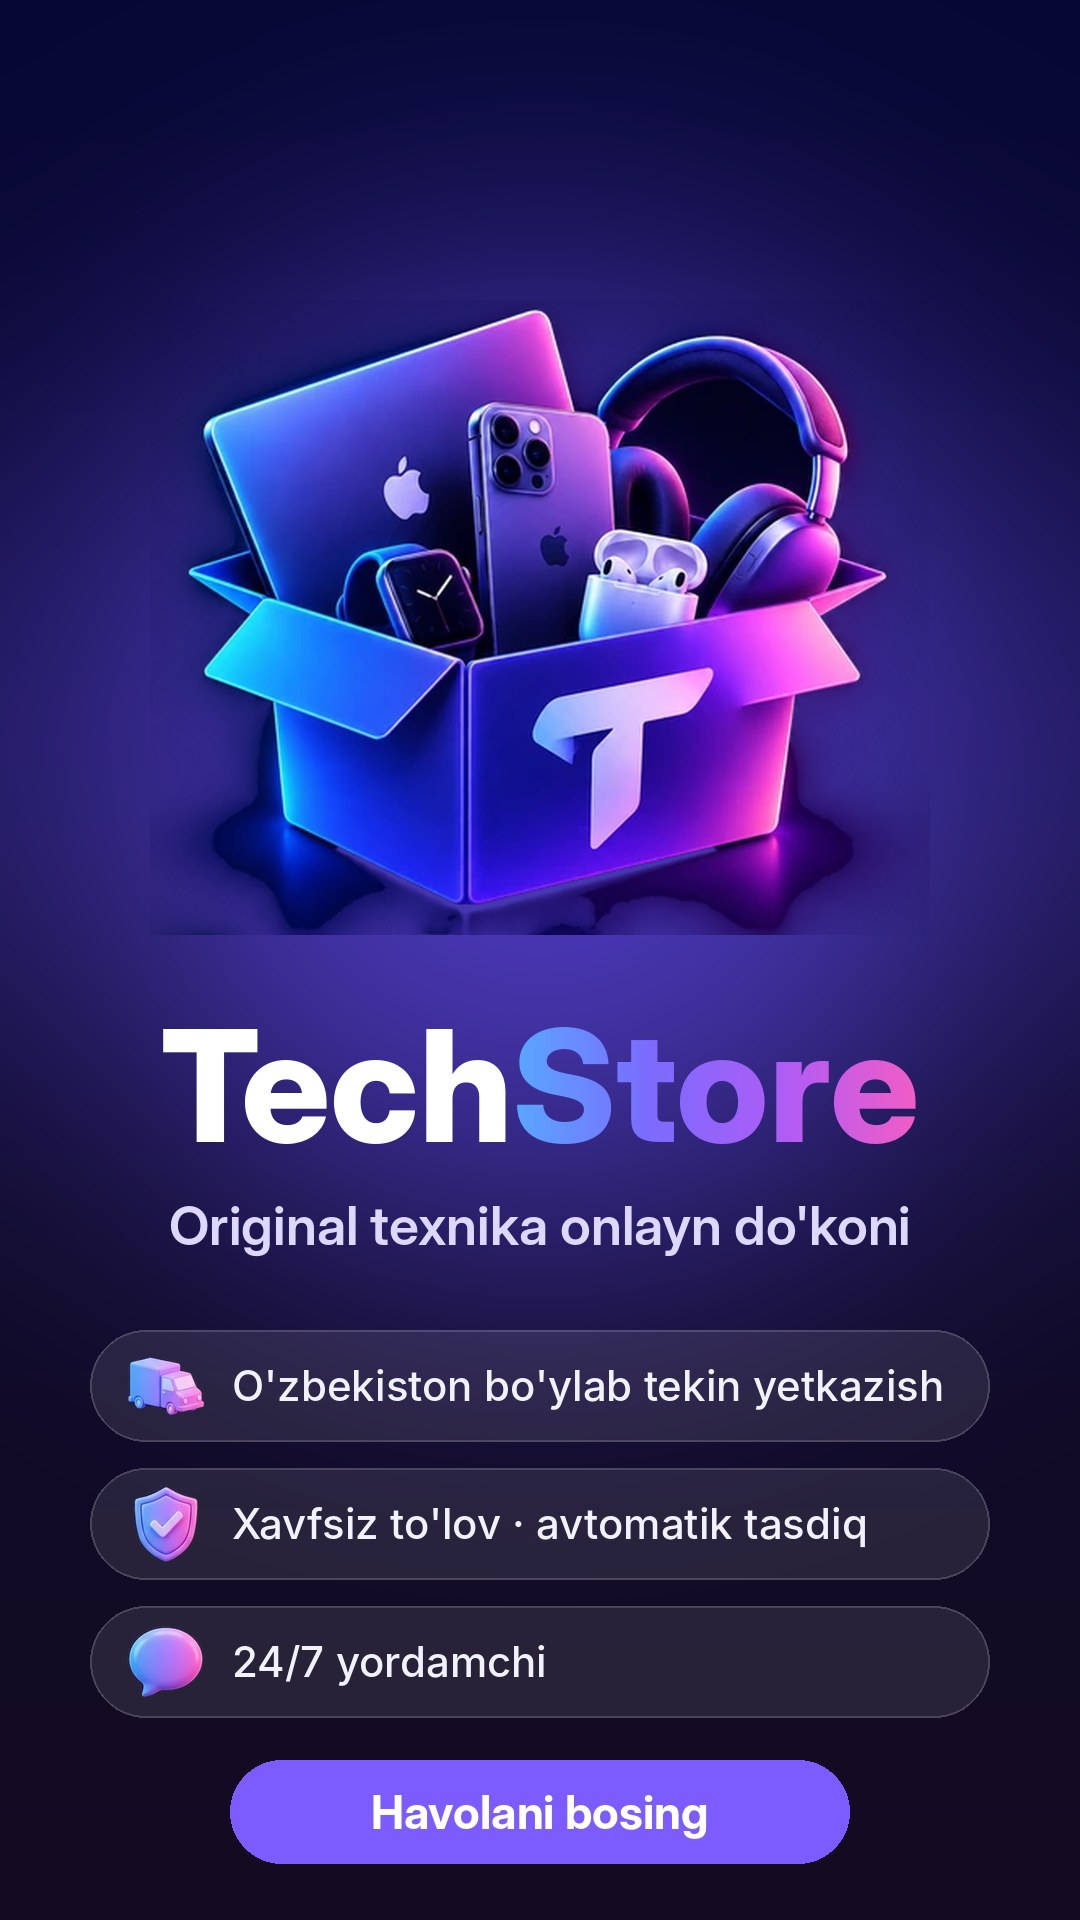
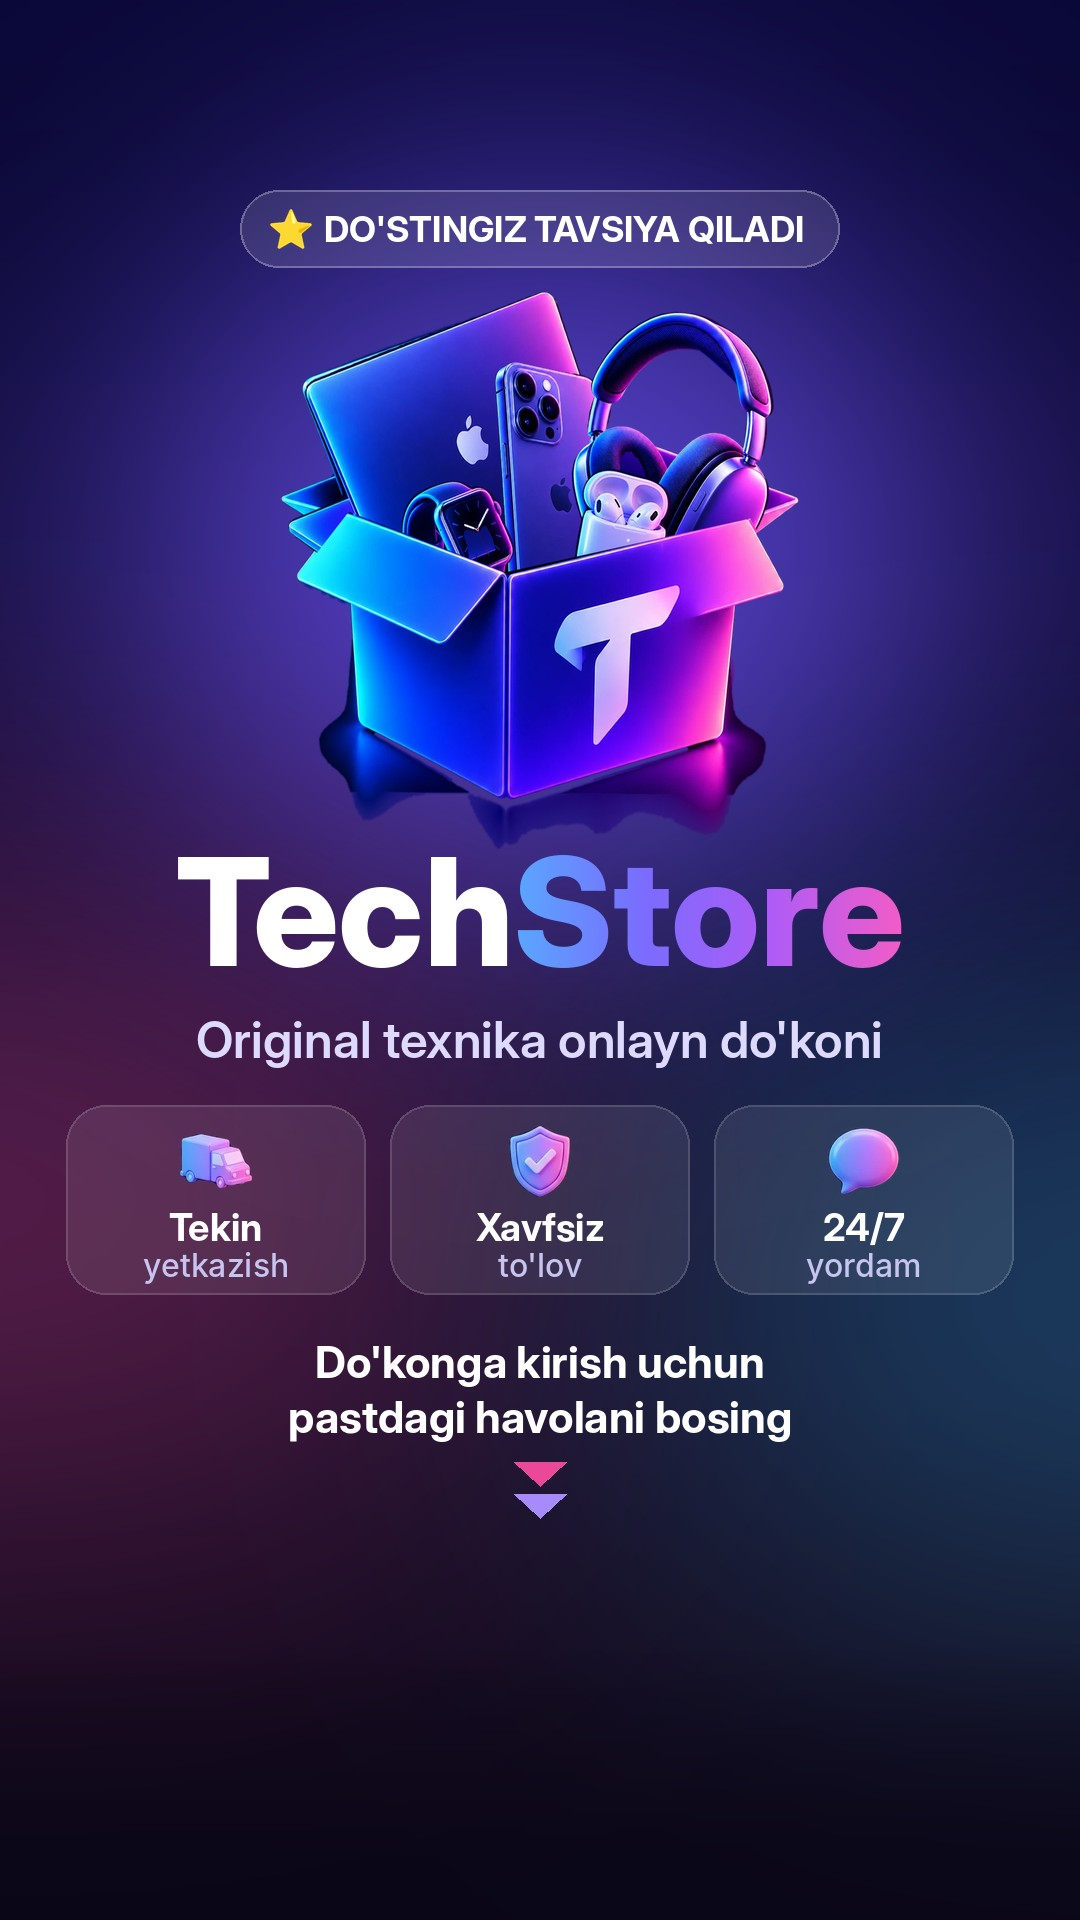
Story uchun rasm qayta chizildi: havola stikeri va izoh joylari bo'sh, tavsiya matni
Claude-Session: https://claude.ai/code/session_019JFRoEUmdfUzBZbz92TZM4

diff --git a/index.html b/index.html
@@ -11989,7 +11989,8 @@ async function shareRefCard() {
 }
 function shareRefStory() {
   try {
-    tg.shareToStory(location.origin + '/ref-story.jpg', { text: "TechStore — original texnika onlayn do'koni 🛍", widget_link: { url: refLink(), name: "Do'konni ochish" } });
+    if (!tg || !tg.shareToStory || (tg.isVersionAtLeast && !tg.isVersionAtLeast('7.8'))) throw new Error('old');
+    tg.shareToStory(location.origin + '/ref-story.jpg?v=2', { text: "Original texnikani shu yerdan olaman — sizga ham tavsiya qilaman 📱💜", widget_link: { url: refLink(), name: "TechStore'ni ochish" } });
   } catch (e) { showToast("Story bu qurilmada ishlamaydi", 'ℹ', 'var(--text2)'); }
 }
 function toggleRefQr() {
